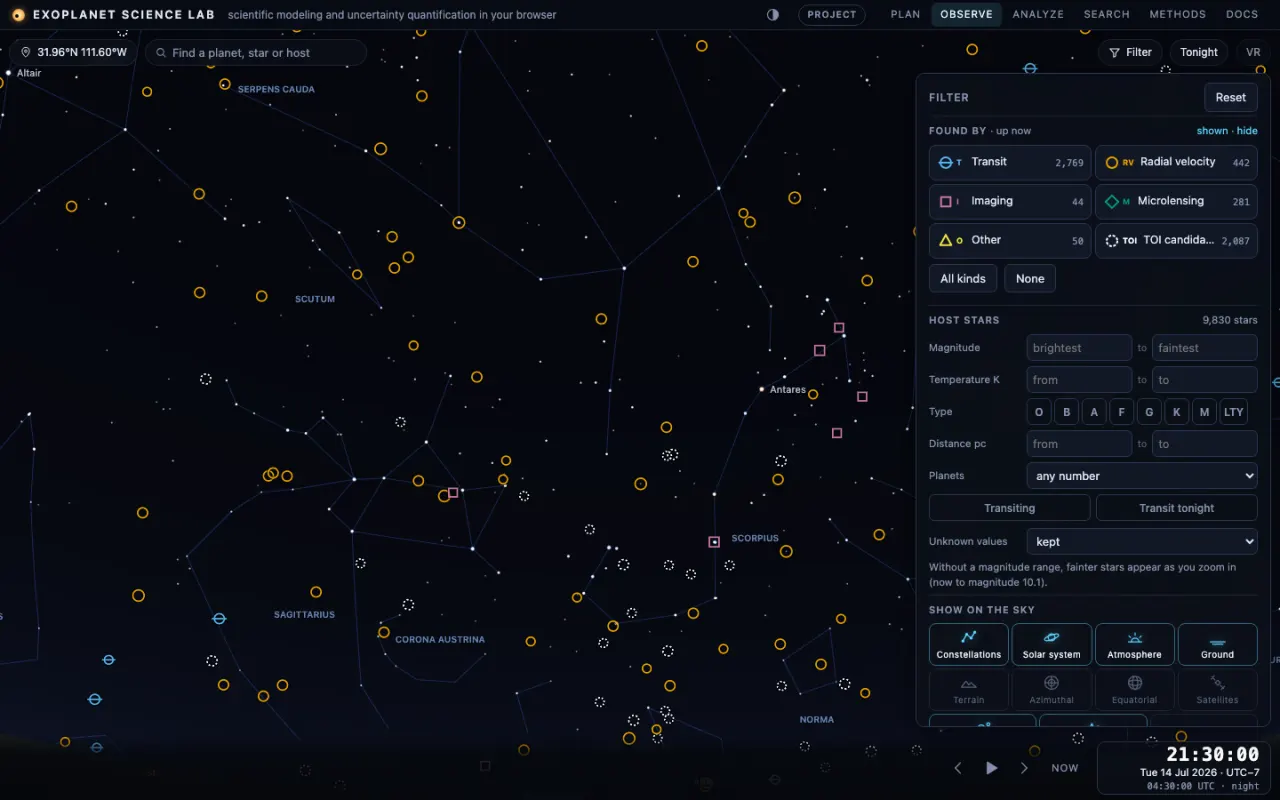
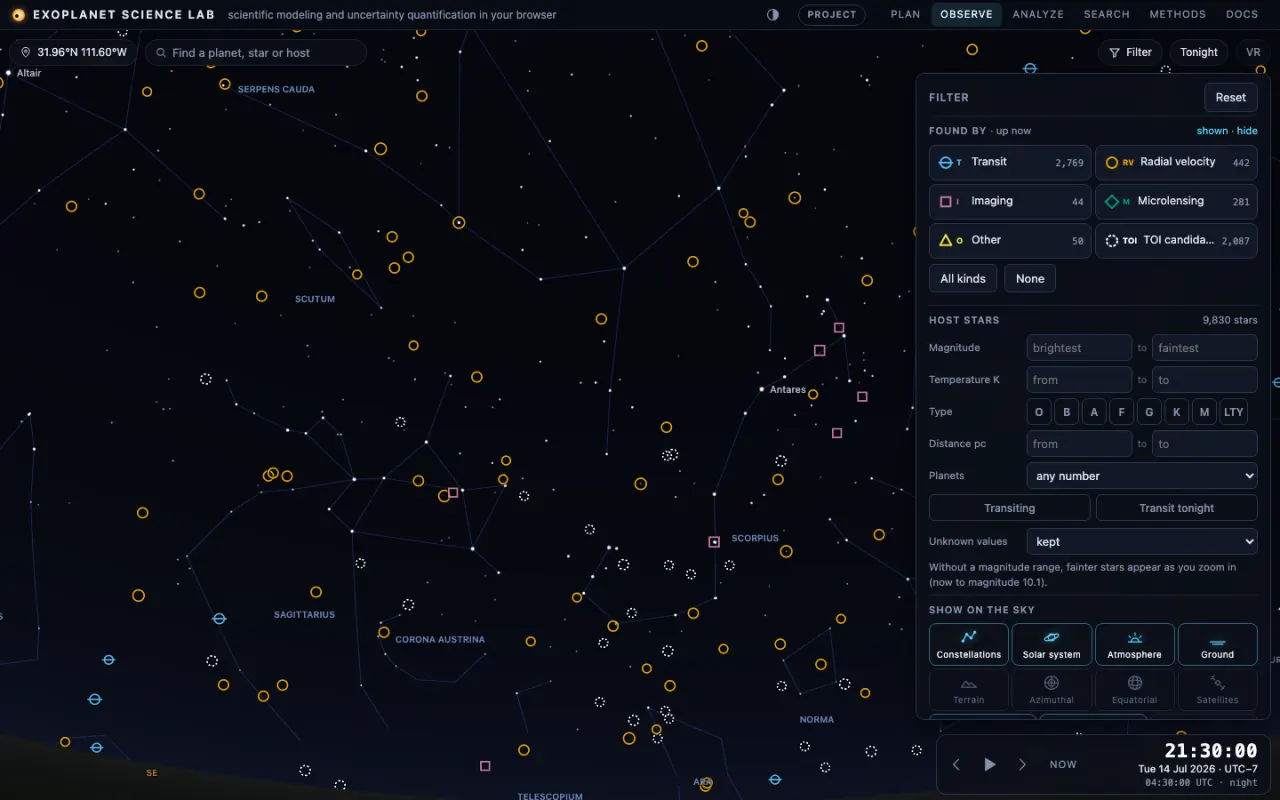
Cite the methods papers; sky clock box; orbit points on the line; README shots
- README Cite section and CITATION.cff: Pearson 2019, Zellem et al. 2020 and Pearson et al. 2022
  (BibTeX from SciX); the methods paragraph cites each when its method is used (timing ephemeris,
  N-body retrieval, airmass baseline), with a test; pearson2019 gains its arXiv number
- Sky view: no gradient band at the bottom; step, pause and Now buttons inside the clock box
- Data along the orbit: points on the orbit line itself, velocities drawn over photometry
- README: Plan screenshot with an event's night open; Observe and orbit shots retaken

diff --git a/python/esl/_core/esl_core.js b/python/esl/_core/esl_core.js
@@ -1,4 +1,4 @@
-// Exoplanet Science Lab core 0.2.0 (sources 4c1c7a64dd45bbde). Generated by tools/build_core_bundle.mjs from src/core; do not edit.
+// Exoplanet Science Lab core 0.2.0 (sources 0af058047ad50adc). Generated by tools/build_core_bundle.mjs from src/core; do not edit.
 (() => {
   var __defProp = Object.defineProperty;
   var __export = (target, all) => {
@@ -7,7 +7,7 @@
   };
 
   // <define:__ESL_STAMP__>
-  var define_ESL_STAMP_default = { name: "exoplanet-science-lab", version: "0.2.0", commit: null, built: null, sourceHash: "4c1c7a64dd45bbde", esbuild: "0.25.12" };
+  var define_ESL_STAMP_default = { name: "exoplanet-science-lab", version: "0.2.0", commit: null, built: null, sourceHash: "0af058047ad50adc", esbuild: "0.25.12" };
 
   // src/core/pyshim.js
   var G = globalThis;
@@ -17624,7 +17624,7 @@ ${indent})`;
     ohta2005: { methods: true, short: "Ohta, Taruya & Suto 2005", authors: "Ohta, Y., Taruya, A. & Suto, Y.", year: 2005, title: "The Rossiter-McLaughlin Effect and Analytic Radial Velocity Curves for Transiting Extrasolar Planetary Systems", where: "ApJ, 622, 1118", doi: "10.1086/428344" },
     otegi2020: { methods: true, short: "Otegi, Bouchy & Helled 2020", authors: "Otegi, J. F., Bouchy, F. & Helled, R.", year: 2020, title: "Revisited mass-radius relations for exoplanets below 120 Earth masses", where: "A&A, 634, A43", doi: "10.1051/0004-6361/201936482" },
     parviainen2015ldtk: { methods: true, short: "Parviainen & Aigrain 2015", authors: "Parviainen, H. & Aigrain, S.", year: 2015, title: "LDTK: Limb Darkening Toolkit", where: "MNRAS, 453, 3822", doi: "10.1093/mnras/stv1857", note: "First page as in the Crossref record (3822-3827)." },
-    pearson2019: { methods: true, short: "Pearson 2019", authors: "Pearson, K. A.", year: 2019, title: "A Search for Multiplanet Systems with TESS Using a Bayesian N-body Retrieval and Machine Learning", where: "AJ, 158, 243", doi: "10.3847/1538-3881/ab4e1c" },
+    pearson2019: { methods: true, short: "Pearson 2019", authors: "Pearson, K. A.", year: 2019, title: "A Search for Multiplanet Systems with TESS Using a Bayesian N-body Retrieval and Machine Learning", where: "AJ, 158, 243", doi: "10.3847/1538-3881/ab4e1c", arxiv: "1907.03377" },
     pont2006: { methods: true, short: "Pont, Zucker & Queloz 2006", authors: "Pont, F., Zucker, S. & Queloz, D.", year: 2006, title: "The effect of red noise on planetary transit detection", where: "MNRAS, 373, 231", doi: "10.1111/j.1365-2966.2006.11012.x" },
     rein2012: { methods: true, short: "Rein & Liu 2012", authors: "Rein, H. & Liu, S.-F.", year: 2012, title: "REBOUND: an open-source multi-purpose N-body code for collisional dynamics", where: "A&A, 537, A128", doi: "10.1051/0004-6361/201118085" },
     rein2015ias15: { methods: true, short: "Rein & Spiegel 2015", authors: "Rein, H. & Spiegel, D. S.", year: 2015, title: "IAS15: a fast, adaptive, high-order integrator for gravitational dynamics, accurate to machine precision over a billion orbits", where: "MNRAS, 446, 1424", doi: "10.1093/mnras/stu2164" },
@@ -18033,7 +18033,7 @@ ${f.filter(Boolean).join(",\n")}
       }
       if (moon) out.push("The planet has a moon in the model: the two bodies orbit their barycentre (the moon on a circular orbit), and the blocked flux is that of the union of the two discs on the limb-darkened star.");
       const ne = L.epochs && L.epochs.length > 1 ? L.epochs.length : 1, air = !!L.airmass;
-      out.push(`${ne > 1 ? "Each light curve has its own flux normalisation, which was" : "The flux normalisation was"} marginalised analytically over a uniform prior U(0, ${A1_PRIOR_WIDTH}) instead of being sampled${air ? `; the baseline is that normalisation times exp(k x airmass)${ne > 1 ? " with one coefficient k per light curve" : ""}` : ""}.`);
+      out.push(`${ne > 1 ? "Each light curve has its own flux normalisation, which was" : "The flux normalisation was"} marginalised analytically over a uniform prior U(0, ${A1_PRIOR_WIDTH}) instead of being sampled${air ? `; the baseline is that normalisation times exp(k x airmass)${ne > 1 ? " with one coefficient k per light curve" : ""}, the airmass model of EXOTIC ${cite("zellem2020")}` : ""}.`);
       if (L.exposure_min > 0) {
         let n3 = null;
         try {
@@ -18052,10 +18052,10 @@ ${f.filter(Boolean).join(",\n")}
       const jf = free.filter((f) => /^jit@/.test(f.key)).length, trend = isFree("rvlin") || isFree("rvquad") || fit.fixed && (fit.fixed.rvlin || fit.fixed.rvquad);
       out.push(`The stellar radial velocity is the sum over planets of K [cos(omega + nu) + e cos(omega)], with K from the planet mass, the stellar mass, the period, the eccentricity and the inclination by the two-body relation${trend ? ", plus a polynomial trend in time" : ""}. Each instrument has its own zero point, marginalised analytically over a uniform prior of width ${num3(GAMMA_PRIOR_WIDTH)} m/s, and a jitter term added in quadrature to its uncertainties (${jf ? `free for ${plural(jf, "instrument")}` : Object.entries(fit.fixed || {}).some(([k, x]) => /^jit@/.test(k) && x > 0) ? "held fixed" : "held at zero"}); the likelihood includes the ln(sigma) normalisation.`);
     }
-    if (tim.length) out.push(`Mid-${nTr && nEc ? "transit and mid-eclipse" : nEc ? "eclipse" : "transit"} times were compared with ${s.nbody ? "the times of an N-body integration" : "the linear ephemeris of the same orbit"}${fit.timing_noise > 0 ? `, with ${num3(fit.timing_noise)} d added in quadrature to their uncertainties` : ""}.`);
+    if (tim.length) out.push(`Mid-${nTr && nEc ? "transit and mid-eclipse" : nEc ? "eclipse" : "transit"} times were compared with ${s.nbody ? "the times of an N-body integration" : "the linear ephemeris of the same orbit"}${fit.timing_noise > 0 ? `, with ${num3(fit.timing_noise)} d added in quadrature to their uncertainties` : ""}${s.nbody ? "" : `, ${L || rvs.length ? "fitted together with the other data to refine the ephemeris" : "to refine the ephemeris"} as in ${cite("pearson2022")}`}.`);
     if (s.nbody) {
       const ias = s.nbody.integrator === "ias15";
-      out.push(`Mutual perturbations were included: mid-transit times and velocities come from an integration of the planets' osculating elements at BJD ${num3(s.nbody.epoch, 13)} with ${ias ? `the IAS15 integrator ${cite("rein2015ias15")}` : `a Wisdom-Holman map in Jacobi coordinates ${cite("wisdom1991", "rein2015whfast")}`}${s.nbody.linear ? "; a straight line in epoch was fitted to each planet's timing residuals inside the likelihood (profiled, not marginalised), so the evidence of this fit is not comparable with that of a Keplerian fit" : ""}. Light curves and mid-eclipse times remain Keplerian.`);
+      out.push(`Mutual perturbations were included in a Bayesian N-body retrieval ${cite("pearson2019")}: mid-transit times and velocities come from an integration of the planets' osculating elements at BJD ${num3(s.nbody.epoch, 13)} with ${ias ? `the IAS15 integrator ${cite("rein2015ias15")}` : `a Wisdom-Holman map in Jacobi coordinates ${cite("wisdom1991", "rein2015whfast")}`}${s.nbody.linear ? "; a straight line in epoch was fitted to each planet's timing residuals inside the likelihood (profiled, not marginalised), so the evidence of this fit is not comparable with that of a Keplerian fit" : ""}. Light curves and mid-eclipse times remain Keplerian.`);
     }
     const sm = { nlive: 400, fracRemain: 0.01, seed: 42, maxCalls: 1e6, ...fit.sampler || {} };
     if (free.length) out.push(`The ${plural(free.length, "free parameter")} and ${free.length === 1 ? "its prior" : "their priors"} were: ${free.map((f) => {

diff --git a/src/core/methodsText.js b/src/core/methodsText.js
@@ -126,7 +126,7 @@ export function methodsParagraph(session, opts = {}) {
     if (moon) out.push('The planet has a moon in the model: the two bodies orbit their barycentre (the moon on a circular orbit), and the blocked flux is that of the union of the two discs on the limb-darkened star.');
     // baseline and exposure
     const ne = L.epochs && L.epochs.length > 1 ? L.epochs.length : 1, air = !!L.airmass;
-    out.push(`${ne > 1 ? 'Each light curve has its own flux normalisation, which was' : 'The flux normalisation was'} marginalised analytically over a uniform prior U(0, ${A1_PRIOR_WIDTH}) instead of being sampled${air ? `; the baseline is that normalisation times exp(k x airmass)${ne > 1 ? ' with one coefficient k per light curve' : ''}` : ''}.`);
+    out.push(`${ne > 1 ? 'Each light curve has its own flux normalisation, which was' : 'The flux normalisation was'} marginalised analytically over a uniform prior U(0, ${A1_PRIOR_WIDTH}) instead of being sampled${air ? `; the baseline is that normalisation times exp(k x airmass)${ne > 1 ? ' with one coefficient k per light curve' : ''}, the airmass model of EXOTIC ${cite('zellem2020')}` : ''}.`);
     if (L.exposure_min > 0) {
       let n = null; try { n = specFromSession(s).supersample; } catch { /* reported below */ }
       out.push(n > 1 ? `The model was averaged over each ${num(L.exposure_min, 4)} min exposure with ${n} evenly spaced evaluations.` : `The ${num(L.exposure_min, 4)} min exposures are short compared with ingress, so the model was evaluated at the mid-exposure times${n === null ? ' (the sub-sampling could not be recomputed from the session)' : ''}.`);
@@ -145,10 +145,10 @@ export function methodsParagraph(session, opts = {}) {
     const jf = free.filter((f) => /^jit@/.test(f.key)).length, trend = isFree('rvlin') || isFree('rvquad') || (fit.fixed && (fit.fixed.rvlin || fit.fixed.rvquad));
     out.push(`The stellar radial velocity is the sum over planets of K [cos(omega + nu) + e cos(omega)], with K from the planet mass, the stellar mass, the period, the eccentricity and the inclination by the two-body relation${trend ? ', plus a polynomial trend in time' : ''}. Each instrument has its own zero point, marginalised analytically over a uniform prior of width ${num(GAMMA_PRIOR_WIDTH)} m/s, and a jitter term added in quadrature to its uncertainties (${jf ? `free for ${plural(jf, 'instrument')}` : Object.entries(fit.fixed || {}).some(([k, x]) => /^jit@/.test(k) && x > 0) ? 'held fixed' : 'held at zero'}); the likelihood includes the ln(sigma) normalisation.`);
   }
-  if (tim.length) out.push(`Mid-${nTr && nEc ? 'transit and mid-eclipse' : nEc ? 'eclipse' : 'transit'} times were compared with ${s.nbody ? 'the times of an N-body integration' : 'the linear ephemeris of the same orbit'}${fit.timing_noise > 0 ? `, with ${num(fit.timing_noise)} d added in quadrature to their uncertainties` : ''}.`);
+  if (tim.length) out.push(`Mid-${nTr && nEc ? 'transit and mid-eclipse' : nEc ? 'eclipse' : 'transit'} times were compared with ${s.nbody ? 'the times of an N-body integration' : 'the linear ephemeris of the same orbit'}${fit.timing_noise > 0 ? `, with ${num(fit.timing_noise)} d added in quadrature to their uncertainties` : ''}${s.nbody ? '' : `, ${L || rvs.length ? 'fitted together with the other data to refine the ephemeris' : 'to refine the ephemeris'} as in ${cite('pearson2022')}`}.`);
   if (s.nbody) {
     const ias = s.nbody.integrator === 'ias15';
-    out.push(`Mutual perturbations were included: mid-transit times and velocities come from an integration of the planets' osculating elements at BJD ${num(s.nbody.epoch, 13)} with ${ias ? `the IAS15 integrator ${cite('rein2015ias15')}` : `a Wisdom-Holman map in Jacobi coordinates ${cite('wisdom1991', 'rein2015whfast')}`}${s.nbody.linear ? '; a straight line in epoch was fitted to each planet\'s timing residuals inside the likelihood (profiled, not marginalised), so the evidence of this fit is not comparable with that of a Keplerian fit' : ''}. Light curves and mid-eclipse times remain Keplerian.`);
+    out.push(`Mutual perturbations were included in a Bayesian N-body retrieval ${cite('pearson2019')}: mid-transit times and velocities come from an integration of the planets' osculating elements at BJD ${num(s.nbody.epoch, 13)} with ${ias ? `the IAS15 integrator ${cite('rein2015ias15')}` : `a Wisdom-Holman map in Jacobi coordinates ${cite('wisdom1991', 'rein2015whfast')}`}${s.nbody.linear ? '; a straight line in epoch was fitted to each planet\'s timing residuals inside the likelihood (profiled, not marginalised), so the evidence of this fit is not comparable with that of a Keplerian fit' : ''}. Light curves and mid-eclipse times remain Keplerian.`);
   }
 
   // ---- priors and sampler

diff --git a/src/viz/scene.js b/src/viz/scene.js
@@ -201,10 +201,10 @@ export async function createViz(container, labelsEl, insetFrame, onFatal) {
 
   // ---- data coverage (viz.setCoverage) --------------------------------------
   // Where on the active planet's orbit each measurement was taken: the planet's position at the time of the point, drawn
-  // as a dot just outside the orbit line for radial velocities and just inside it for photometry, so the two read as two
-  // tracks along the orbit. Phases that were never observed are the gaps. Not drawn from Earth or in the inset (edge-on,
+  // as a dot on the orbit line itself, orange for radial velocities and green for photometry (the velocities are drawn last,
+  // so they stay visible where the two overlap). Phases that were never observed are the gaps. Not drawn from Earth or in the inset (edge-on,
   // every point lies on one line).
-  const COV_MAX = 20000, COV_KINDS = { rv: { color: 0xffa94d, label: 'radial velocity', shift: 1 }, phot: { color: 0x5ce0a0, label: 'photometry', shift: -1 } };
+  const COV_MAX = 20000, COV_KINDS = { phot: { color: 0x5ce0a0, label: 'photometry' }, rv: { color: 0xffa94d, label: 'radial velocity' } };
   const covGeo = new THREE.BufferGeometry();
   covGeo.setAttribute('position', new THREE.BufferAttribute(new Float32Array(COV_MAX * 3), 3));
   covGeo.setAttribute('color', new THREE.BufferAttribute(new Float32Array(COV_MAX * 3), 3));
@@ -218,15 +218,14 @@ export async function createViz(container, labelsEl, insetFrame, onFatal) {
     let n = 0; covCounts = {};
     if (el && opts.coverage) {
       const total = covSets.reduce((a, c) => a + c.t.length, 0), stride = Math.max(1, Math.ceil(total / COV_MAX));
-      const P = covGeo.attributes.position.array, C = covGeo.attributes.color.array, gap = 0.035 * el.ars + 0.04;
-      for (const c of covSets) {
+      const P = covGeo.attributes.position.array, C = covGeo.attributes.color.array;
+      for (const c of [...covSets].sort((a, b) => (a.kind === 'rv') - (b.kind === 'rv'))) {   // photometry first, velocities on top
         const K = COV_KINDS[c.kind]; if (!K) continue;
         covCol.setHex(K.color); covCounts[c.kind] = (covCounts[c.kind] || 0) + c.t.length;
         for (let i = 0; i < c.t.length && n < COV_MAX; i += stride) {
           if (!Number.isFinite(c.t[i])) continue;
           orbitPosition(el, c.t[i], covPos);
-          const r = Math.hypot(covPos[0], covPos[1], covPos[2]) || 1, k = 1 + (K.shift * gap) / r;   // a fixed distance off the orbit, outward or inward
-          P[n * 3] = covPos[0] * k; P[n * 3 + 1] = covPos[1] * k; P[n * 3 + 2] = covPos[2] * k;
+          P[n * 3] = covPos[0]; P[n * 3 + 1] = covPos[1]; P[n * 3 + 2] = covPos[2];
           C[n * 3] = covCol.r; C[n * 3 + 1] = covCol.g; C[n * 3 + 2] = covCol.b; n++;
         }
       }
@@ -234,7 +233,7 @@ export async function createViz(container, labelsEl, insetFrame, onFatal) {
     }
     covGeo.setDrawRange(0, n);
     const kinds = Object.keys(covCounts);
-    covLegend.innerHTML = kinds.map((k) => `<span><i style="background:#${COV_KINDS[k].color.toString(16).padStart(6, '0')}"></i>${COV_KINDS[k].label} · ${covCounts[k].toLocaleString('en-US')}</span>`).join('') + (kinds.length ? '<small>outside the orbit: velocities · inside: photometry</small>' : '');
+    covLegend.innerHTML = kinds.map((k) => `<span><i style="background:#${COV_KINDS[k].color.toString(16).padStart(6, '0')}"></i>${COV_KINDS[k].label} · ${covCounts[k].toLocaleString('en-US')}</span>`).join('');
   }
 
   // ---- state ----------------------------------------------------------------

diff --git a/src/sky/sky.css b/src/sky/sky.css
@@ -46,7 +46,7 @@ body.skypage { display: flex; flex-direction: column; height: 100dvh; }
 .arbar .targets { display: inline-flex; gap: 6px; flex-wrap: wrap; justify-content: center; }
 
 /* ---- bottom bar: layers on the left, time on the right ---- */
-.sky-bar { position: absolute; left: 0; right: 0; bottom: 0; display: flex; align-items: stretch; gap: 10px; padding: 6px 10px calc(6px + env(safe-area-inset-bottom, 0px)); background: linear-gradient(transparent, color-mix(in srgb, var(--bg) 80%, transparent) 28%, color-mix(in srgb, var(--bg) 95%, transparent)); z-index: 2; }
+.sky-bar { position: absolute; left: 0; right: 0; bottom: 0; display: flex; align-items: stretch; gap: 10px; padding: 6px 10px calc(6px + env(safe-area-inset-bottom, 0px)); background: none; pointer-events: none; z-index: 2; }   /* no band across the sky: only the time box is opaque */
 .layers { display: flex; gap: 2px; align-items: stretch; overflow-x: auto; scrollbar-width: none; min-width: 0; flex: 1 1 auto; }
 .layers::-webkit-scrollbar { display: none; }
 .layer { flex: none; display: flex; flex-direction: column; align-items: center; justify-content: center; gap: 2px; min-width: 62px; height: 52px; padding: 4px 7px; background: none; border: 1px solid transparent; border-radius: 8px; color: var(--faint); cursor: pointer; }
@@ -54,12 +54,12 @@ body.skypage { display: flex; flex-direction: column; height: 100dvh; }
 .layer:hover { color: var(--text); background: color-mix(in srgb, var(--text) 4%, transparent); }
 .layer.on { color: var(--on); }
 .layer.on svg { color: var(--model); filter: drop-shadow(0 0 5px color-mix(in srgb, var(--model) 53%, transparent)); }
-.timebox { flex: none; display: flex; align-items: center; gap: 3px; }
+.timebox { flex: none; display: flex; align-items: center; gap: 3px; padding: 3px 3px 3px 5px; border: 1px solid var(--line2); border-radius: 11px; background: color-mix(in srgb, var(--panel) 88%, transparent); backdrop-filter: blur(6px); pointer-events: auto; }   /* the step, pause and Now buttons inside the clock's box */
 .tbtn { width: 34px; height: 34px; display: inline-flex; align-items: center; justify-content: center; background: none; border: 1px solid transparent; border-radius: 8px; color: var(--dim); cursor: pointer; padding: 0; }
 .tbtn:hover { color: var(--strong); background: color-mix(in srgb, var(--text) 5%, transparent); }
 .tbtn.text { width: auto; padding: 0 10px; font-size: 11.5px; letter-spacing: .08em; text-transform: uppercase; }
 .tbtn.text.on { color: var(--ok); }
-.readout { margin-left: 6px; padding: 3px 12px; border: 1px solid var(--line2); border-radius: 9px; background: color-mix(in srgb, var(--panel) 80%, transparent); cursor: ew-resize; text-align: right; min-width: 196px; touch-action: none; }
+.readout { margin-left: 4px; padding: 3px 10px; border: 1px solid transparent; border-radius: 8px; background: none; cursor: ew-resize; text-align: right; min-width: 196px; touch-action: none; }
 .readout:hover, .readout.scrub, .readout:focus-visible { border-color: var(--model); outline: none; }
 .readout .l1 { font: 600 21px/1.1 var(--mono); letter-spacing: .02em; color: var(--strong); font-variant-numeric: tabular-nums; }
 .readout .l2 { font-size: 11.5px; color: var(--text); white-space: nowrap; }

diff --git a/src/validation/refs.js b/src/validation/refs.js
@@ -101,7 +101,7 @@ export const REFS = {
   ohta2005: { methods: true, short: 'Ohta, Taruya & Suto 2005', authors: 'Ohta, Y., Taruya, A. & Suto, Y.', year: 2005, title: 'The Rossiter-McLaughlin Effect and Analytic Radial Velocity Curves for Transiting Extrasolar Planetary Systems', where: 'ApJ, 622, 1118', doi: '10.1086/428344' },
   otegi2020: { methods: true, short: 'Otegi, Bouchy & Helled 2020', authors: 'Otegi, J. F., Bouchy, F. & Helled, R.', year: 2020, title: 'Revisited mass-radius relations for exoplanets below 120 Earth masses', where: 'A&A, 634, A43', doi: '10.1051/0004-6361/201936482' },
   parviainen2015ldtk: { methods: true, short: 'Parviainen & Aigrain 2015', authors: 'Parviainen, H. & Aigrain, S.', year: 2015, title: 'LDTK: Limb Darkening Toolkit', where: 'MNRAS, 453, 3822', doi: '10.1093/mnras/stv1857', note: 'First page as in the Crossref record (3822-3827).' },
-  pearson2019: { methods: true, short: 'Pearson 2019', authors: 'Pearson, K. A.', year: 2019, title: 'A Search for Multiplanet Systems with TESS Using a Bayesian N-body Retrieval and Machine Learning', where: 'AJ, 158, 243', doi: '10.3847/1538-3881/ab4e1c' },
+  pearson2019: { methods: true, short: 'Pearson 2019', authors: 'Pearson, K. A.', year: 2019, title: 'A Search for Multiplanet Systems with TESS Using a Bayesian N-body Retrieval and Machine Learning', where: 'AJ, 158, 243', doi: '10.3847/1538-3881/ab4e1c', arxiv: '1907.03377' },
   pont2006: { methods: true, short: 'Pont, Zucker & Queloz 2006', authors: 'Pont, F., Zucker, S. & Queloz, D.', year: 2006, title: 'The effect of red noise on planetary transit detection', where: 'MNRAS, 373, 231', doi: '10.1111/j.1365-2966.2006.11012.x' },
   rein2012: { methods: true, short: 'Rein & Liu 2012', authors: 'Rein, H. & Liu, S.-F.', year: 2012, title: 'REBOUND: an open-source multi-purpose N-body code for collisional dynamics', where: 'A&A, 537, A128', doi: '10.1051/0004-6361/201118085' },
   rein2015ias15: { methods: true, short: 'Rein & Spiegel 2015', authors: 'Rein, H. & Spiegel, D. S.', year: 2015, title: 'IAS15: a fast, adaptive, high-order integrator for gravitational dynamics, accurate to machine precision over a billion orbits', where: 'MNRAS, 446, 1424', doi: '10.1093/mnras/stu2164' },

diff --git a/src/main.js b/src/main.js
@@ -2554,7 +2554,7 @@ function buildLookPanel() {
   const a0 = h('input', { type: 'number', min: 0, max: 0.95, step: 0.05, value: S.albedo[0], 'aria-label': 'Minimum albedo' }), a1 = h('input', { type: 'number', min: 0, max: 0.95, step: 0.05, value: S.albedo[1], 'aria-label': 'Maximum albedo' });
   [a0, a1].forEach((i, j) => i.addEventListener('change', () => { S.albedo[j] = Math.min(0.95, Math.max(0, Number(i.value) || 0)); S.albedo.sort((x, y) => x - y); refresh(); }));
   p.append(h('h4', {}, 'Habitable zone'), h('label', { class: 'tog' }, hzc, 'Show the habitable zone'), h('div', { class: 'field3', style: 'margin-top:4px' }, h('span', {}, 'Albedo'), a0, h('span', { class: 'pm' }, '–'), a1));
-  p.append(h('p', { class: 'note', style: 'margin-bottom:0' }, '“Data along the orbit” puts each measurement where the planet was when it was taken: velocities outside the orbit, photometry inside; the gaps are phases never observed. Brightest where every case agrees: Kopparapu et al. conservative limits, fading to the optimistic ones, blurred by the T eff uncertainty and the albedo range. “Enlarge planet” is for visibility only; the From Earth view and the inset are always true scale.'));
+  p.append(h('p', { class: 'note', style: 'margin-bottom:0' }, '“Data along the orbit” puts each measurement where the planet was when it was taken, on the orbit: velocities orange, photometry green; the gaps are phases never observed. Brightest where every case agrees: Kopparapu et al. conservative limits, fading to the optimistic ones, blurred by the T eff uncertainty and the albedo range. “Enlarge planet” is for visibility only; the From Earth view and the inset are always true scale.'));
 }
 
 function animRange() {

diff --git a/tools/docs/readme_shots.py b/tools/docs/readme_shots.py
@@ -54,6 +54,11 @@ def orbit(b):
 def plan(b):
     pg = open_page(b, "plan/", 6000)
     pg.evaluate("(() => { const e = document.getElementById('p-count'); window.scrollTo(0, e.getBoundingClientRect().top + window.scrollY - 70); })()"); pg.wait_for_timeout(800)
+    # open one event's details (the large altitude chart and sky chart): WASP-33 b if it is listed, else the best score
+    pg.evaluate("""(() => { const rows = [...document.querySelectorAll('.ev')], score = (r) => +(r.querySelector('.ev-score b') || {}).textContent || 0;
+        const r = rows.find((x) => (x.querySelector('.nm') || {}).textContent === 'WASP-33 b') || rows.sort((a, b) => score(b) - score(a))[0];
+        r.querySelector('.c-name').click(); })()"""); pg.wait_for_timeout(2500)
+    pg.evaluate("(() => { const e = document.getElementById('p-count'); window.scrollTo(0, e.getBoundingClientRect().top + window.scrollY - 70); })()"); pg.wait_for_timeout(1000)
     save(pg, "plan"); pg.close()
 
 

diff --git a/docs/METHODS.md b/docs/METHODS.md
@@ -1572,7 +1572,7 @@ const { text, bibtex, keys, notes } = methodsParagraph(session, { ldSource, slic
 
 Its output for the stored example `hd80606-joint.json` (a draft to adapt; citation keys in square brackets match the BibTeX below):
 
-> We fitted the light curve (899 points; TESS), 264 radial velocities from 7 instruments (ELODIE, HIRES_k, HRS_1, HRS_2, HIRES_j, SOPHIE, APF), 4 mid-transit times and 1 mid-eclipse time of HD 80606 jointly with Exoplanet Science Lab 0.2.0 [esl]. The transit model is the fraction of stellar flux behind the planet's disc for the four-coefficient limb-darkening law of [claret2000], evaluated as a line integral around the boundary of the occulted region (Green's theorem), with mid-transit defined as inferior conjunction; the software's test suite holds this flux within 1e-10 of a quadrature reference. The limb-darkening coefficients were held fixed at (0.49387, -0.072946, 0.45785, -0.21582) for the band recorded as "TESS (approx.)". The flux normalisation was marginalised analytically over a uniform prior U(0, 2) instead of being sampled. The 2 min exposures are short compared with ingress, so the model was evaluated at the mid-exposure times. Orbits are Keplerian and eccentric; Kepler's equation is solved to machine precision from the starting value of [danby1987]. The scaled semi-major axis a/R_star was not a free parameter: for each planet it follows from Kepler's third law with the stellar mass and radius, the period and the planet mass, so that all data constrain one orbit. The stellar radial velocity is the sum over planets of K [cos(omega + nu) + e cos(omega)], with K from the planet mass, the stellar mass, the period, the eccentricity and the inclination by the two-body relation. Each instrument has its own zero point, marginalised analytically over a uniform prior of width 200000 m/s, and a jitter term added in quadrature to its uncertainties (held at zero); the likelihood includes the ln(sigma) normalisation. Mid-transit and mid-eclipse times were compared with the linear ephemeris of the same orbit. The 7 free parameters and their priors were: Rp/R★ ~ U(0.01, 0.2); i [°] ~ U(87, 90); P [d] ~ U(111.43633, 111.43717); T mid [d] ~ U(2458887.8757, 2458888.2757); e ~ U(0.93096, 0.93216); ω [°] ~ U(-59.04, -58.62); Mp [M Jup] ~ U(4.172, 4.202). Posterior samples and the Bayesian evidence were obtained by nested sampling [skilling2006] with the software's sampler, which follows UltraNest [buchner2021]: 400 live points, new points drawn from an MLFriends region [buchner2016, buchner2019] in whitened coordinates, stopping when the live points hold less than 0.01 of the evidence (seed 42; budget 1000000 likelihood evaluations). The run converged after 57440 likelihood evaluations with 2804 effective posterior samples and ln Z = 3359.94 +/- 0.22 (chi-square 1675.1 for 1168 measurements at the best fit). We report posterior medians with the 15.87 and 84.13 per cent quantiles as uncertainties; derived quantities were computed on posterior draws. Times were used as given in the data; the software does not convert between time standards.
+> We fitted the light curve (899 points; TESS), 264 radial velocities from 7 instruments (ELODIE, HIRES_k, HRS_1, HRS_2, HIRES_j, SOPHIE, APF), 4 mid-transit times and 1 mid-eclipse time of HD 80606 jointly with Exoplanet Science Lab 0.2.0 [esl]. The transit model is the fraction of stellar flux behind the planet's disc for the four-coefficient limb-darkening law of [claret2000], evaluated as a line integral around the boundary of the occulted region (Green's theorem), with mid-transit defined as inferior conjunction; the software's test suite holds this flux within 1e-10 of a quadrature reference. The limb-darkening coefficients were held fixed at (0.49387, -0.072946, 0.45785, -0.21582) for the band recorded as "TESS (approx.)". The flux normalisation was marginalised analytically over a uniform prior U(0, 2) instead of being sampled. The 2 min exposures are short compared with ingress, so the model was evaluated at the mid-exposure times. Orbits are Keplerian and eccentric; Kepler's equation is solved to machine precision from the starting value of [danby1987]. The scaled semi-major axis a/R_star was not a free parameter: for each planet it follows from Kepler's third law with the stellar mass and radius, the period and the planet mass, so that all data constrain one orbit. The stellar radial velocity is the sum over planets of K [cos(omega + nu) + e cos(omega)], with K from the planet mass, the stellar mass, the period, the eccentricity and the inclination by the two-body relation. Each instrument has its own zero point, marginalised analytically over a uniform prior of width 200000 m/s, and a jitter term added in quadrature to its uncertainties (held at zero); the likelihood includes the ln(sigma) normalisation. Mid-transit and mid-eclipse times were compared with the linear ephemeris of the same orbit, fitted together with the other data to refine the ephemeris as in [pearson2022]. The 7 free parameters and their priors were: Rp/R★ ~ U(0.01, 0.2); i [°] ~ U(87, 90); P [d] ~ U(111.43633, 111.43717); T mid [d] ~ U(2458887.8757, 2458888.2757); e ~ U(0.93096, 0.93216); ω [°] ~ U(-59.04, -58.62); Mp [M Jup] ~ U(4.172, 4.202). Posterior samples and the Bayesian evidence were obtained by nested sampling [skilling2006] with the software's sampler, which follows UltraNest [buchner2021]: 400 live points, new points drawn from an MLFriends region [buchner2016, buchner2019] in whitened coordinates, stopping when the live points hold less than 0.01 of the evidence (seed 42; budget 1000000 likelihood evaluations). The run converged after 57440 likelihood evaluations with 2804 effective posterior samples and ln Z = 3359.94 +/- 0.22 (chi-square 1675.1 for 1168 measurements at the best fit). We report posterior medians with the 15.87 and 84.13 per cent quantiles as uncertainties; derived quantities were computed on posterior draws. Times were used as given in the data; the software does not convert between time standards.
 
 To state or check by hand:
 
@@ -1607,6 +1607,18 @@ To state or check by hand:
   volume = {40},
   pages = {303},
   doi = {10.1007/BF01235847}
+}
+
+@article{pearson2022,
+  author = {Pearson, K. A. and Beichman, C. and Fulton, B. J. and Esposito, T. M. and others},
+  title = {{Utilizing a Global Network of Telescopes to Update the Ephemeris for the Highly Eccentric Planet HD 80606 b and to Ensure the Efficient Scheduling of JWST}},
+  year = {2022},
+  journal = {The Astronomical Journal},
+  volume = {164},
+  pages = {178},
+  doi = {10.3847/1538-3881/ac8dee},
+  eprint = {2208.14520},
+  archivePrefix = {arXiv}
 }
 
 @article{skilling2006,
@@ -1748,7 +1760,7 @@ Cite the software with its version (`CITATION.cff` at the repository root; BibTe
 - <a id="ref-otegi2020"></a>Otegi, J. F., Bouchy, F. & Helled, R. 2020. [Revisited mass-radius relations for exoplanets below 120 Earth masses](https://doi.org/10.1051/0004-6361/201936482). A&A, 634, A43. doi:10.1051/0004-6361/201936482 [`otegi2020`]
 - <a id="ref-parviainen2015"></a>Parviainen, H. 2015. [PyTransit: fast and easy exoplanet transit modelling in Python](https://doi.org/10.1093/mnras/stv894). MNRAS, 450, 3233. doi:10.1093/mnras/stv894 arXiv:1504.07433 [`parviainen2015`]
 - <a id="ref-parviainen2015ldtk"></a>Parviainen, H. & Aigrain, S. 2015. [LDTK: Limb Darkening Toolkit](https://doi.org/10.1093/mnras/stv1857). MNRAS, 453, 3822. doi:10.1093/mnras/stv1857 *First page as in the Crossref record (3822-3827).* [`parviainen2015ldtk`]
-- <a id="ref-pearson2019"></a>Pearson, K. A. 2019. [A Search for Multiplanet Systems with TESS Using a Bayesian N-body Retrieval and Machine Learning](https://doi.org/10.3847/1538-3881/ab4e1c). AJ, 158, 243. doi:10.3847/1538-3881/ab4e1c [`pearson2019`]
+- <a id="ref-pearson2019"></a>Pearson, K. A. 2019. [A Search for Multiplanet Systems with TESS Using a Bayesian N-body Retrieval and Machine Learning](https://doi.org/10.3847/1538-3881/ab4e1c). AJ, 158, 243. doi:10.3847/1538-3881/ab4e1c arXiv:1907.03377 [`pearson2019`]
 - <a id="ref-pearson2022"></a>Pearson, K. A., Beichman, C., Fulton, B. J., Esposito, T. M., et al. 2022. [Utilizing a Global Network of Telescopes to Update the Ephemeris for the Highly Eccentric Planet HD 80606 b and to Ensure the Efficient Scheduling of JWST](https://doi.org/10.3847/1538-3881/ac8dee). AJ, 164, 178. doi:10.3847/1538-3881/ac8dee arXiv:2208.14520 [`pearson2022`]
 - <a id="ref-pecaut2013"></a>Pecaut, M. J. & Mamajek, E. E. 2013. [Intrinsic Colors, Temperatures, and Bolometric Corrections of Pre-main-sequence Stars](https://doi.org/10.1088/0067-0049/208/1/9). ApJS, 208, 9. doi:10.1088/0067-0049/208/1/9 [`pecaut2013`]
 - <a id="ref-pont2006"></a>Pont, F., Zucker, S. & Queloz, D. 2006. [The effect of red noise on planetary transit detection](https://doi.org/10.1111/j.1365-2966.2006.11012.x). MNRAS, 373, 231. doi:10.1111/j.1365-2966.2006.11012.x [`pont2006`]

diff --git a/README.md b/README.md
@@ -27,18 +27,18 @@ Files you open never leave your browser: every science routine (transit and RV m
 
 ![The orbit of the candidate TOI-1873 d with each TESS and NEID measurement placed where the planet was when it was taken](docs/screens/orbit.webp)
 
-- **Look ▸ Data along the orbit** places every measurement where the planet was when it was taken: velocities just outside the orbit (orange), photometry just inside (green).
+- **Look ▸ Data along the orbit** places every measurement where the planet was when it was taken: on the orbit itself, velocities in orange and photometry in green.
 - The gaps are the phases nobody observed. A well-sampled RV planet (HD 80606 b) is ringed all the way round.
 - A candidate like TOI-1873 d shows its TESS sectors as clumps and its few velocities scattered between them, so you can see why its period is one of several aliases.
 
 ### Plan
 
-![Plan: observable transits from Kitt Peak, ranked by a score, with altitude charts](docs/screens/plan.webp)
+![Plan: observable transits from Kitt Peak, ranked by a score, with the night of WASP-33 b open: altitude chart, contact times and sky chart](docs/screens/plan.webp)
 
 - Transits, secondary eclipses, phase-curve and custom windows for your site and nights, with timing uncertainty propagated from the ephemeris.
 - Each event gets a 0–100 score from its coverage, dark baseline, altitude (airmass) and expected signal-to-noise (depth, host magnitude and duration for a small telescope).
 - Pick a site on the globe (89 observatories with links to their weather and all-sky cameras), use a terrain horizon, filter by magnitude, depth and discovery method, and include TESS candidates.
-- Every row opens an altitude chart and opens in the sky view or the analyzer, and the ephemerides download as CSV.
+- Click an event for its night (WASP-33 b here): altitude and airmass against twilight, the Moon and the ±1σ timing window, the contact times, and a sky chart of its path; from there it opens in the sky view or the analyzer. The ephemerides download as CSV.
 
 ### Observe
 
@@ -116,6 +116,65 @@ cd mcp && npm test             # the MCP server
 ## Cite
 
 Please cite the software (`CITATION.cff`) and the papers of the methods you used: the app's Results tab writes a methods paragraph with exactly those references.
+
+The methods behind the software come from these papers (BibTeX from [SciX](https://scixplorer.org); the journal macros are spelled out):
+
+- Pearson 2019: Bayesian N-body retrieval of transit times with nested sampling ([2019AJ....158..243P](https://scixplorer.org/abs/2019AJ....158..243P/abstract))
+- Zellem et al. 2020: EXOTIC, the photometry and light-curve fitting the Photometry page follows ([2020PASP..132e4401Z](https://scixplorer.org/abs/2020PASP..132e4401Z/abstract))
+- Pearson et al. 2022: joint fits of transits, velocities and mid-transit times to refine an ephemeris, and the system table ([2022AJ....164..178P](https://scixplorer.org/abs/2022AJ....164..178P/abstract))
+
+```bibtex
+@ARTICLE{2019AJ....158..243P,
+       author = {{Pearson}, Kyle A.},
+        title = "{A Search for Multiplanet Systems with TESS Using a Bayesian N-body Retrieval and Machine Learning}",
+      journal = {The Astronomical Journal},
+         year = 2019,
+        month = dec,
+       volume = {158},
+       number = {6},
+          eid = {243},
+        pages = {243},
+          doi = {10.3847/1538-3881/ab4e1c},
+archivePrefix = {arXiv},
+       eprint = {1907.03377},
+ primaryClass = {astro-ph.EP},
+       adsurl = {https://ui.adsabs.harvard.edu/abs/2019AJ....158..243P}
+}
+
+@ARTICLE{2020PASP..132e4401Z,
+       author = {{Zellem}, Robert T. and {Pearson}, Kyle A. and {Blaser}, Ethan and {Fowler}, Martin and {Ciardi}, David R. and {Biferno}, Anya and {Massey}, Bob and {Marchis}, Franck and {Baer}, Robert and {Ball}, Conley and et al.},
+        title = "{Utilizing Small Telescopes Operated by Citizen Scientists for Transiting Exoplanet Follow-up}",
+      journal = {Publications of the Astronomical Society of the Pacific},
+         year = 2020,
+        month = may,
+       volume = {132},
+       number = {1011},
+          eid = {054401},
+        pages = {054401},
+          doi = {10.1088/1538-3873/ab7ee7},
+archivePrefix = {arXiv},
+       eprint = {2003.09046},
+ primaryClass = {astro-ph.EP},
+       adsurl = {https://ui.adsabs.harvard.edu/abs/2020PASP..132e4401Z}
+}
+
+@ARTICLE{2022AJ....164..178P,
+       author = {{Pearson}, Kyle A. and {Beichman}, Charles and {Fulton}, B.~J. and {Esposito}, Thomas M. and {Zellem}, Robert T. and {Ciardi}, David R. and {Rolfness}, Jonah and {Engelke}, John and {Fatahi}, Tamim and {Zimmerman-Brachman}, Rachel and et al.},
+        title = "{Utilizing a Global Network of Telescopes to Update the Ephemeris for the Highly Eccentric Planet HD 80606 b and to Ensure the Efficient Scheduling of JWST}",
+      journal = {The Astronomical Journal},
+         year = 2022,
+        month = nov,
+       volume = {164},
+       number = {5},
+          eid = {178},
+        pages = {178},
+          doi = {10.3847/1538-3881/ac8dee},
+archivePrefix = {arXiv},
+       eprint = {2208.14520},
+ primaryClass = {astro-ph.EP},
+       adsurl = {https://ui.adsabs.harvard.edu/abs/2022AJ....164..178P}
+}
+```
 
 ## Licence
 
